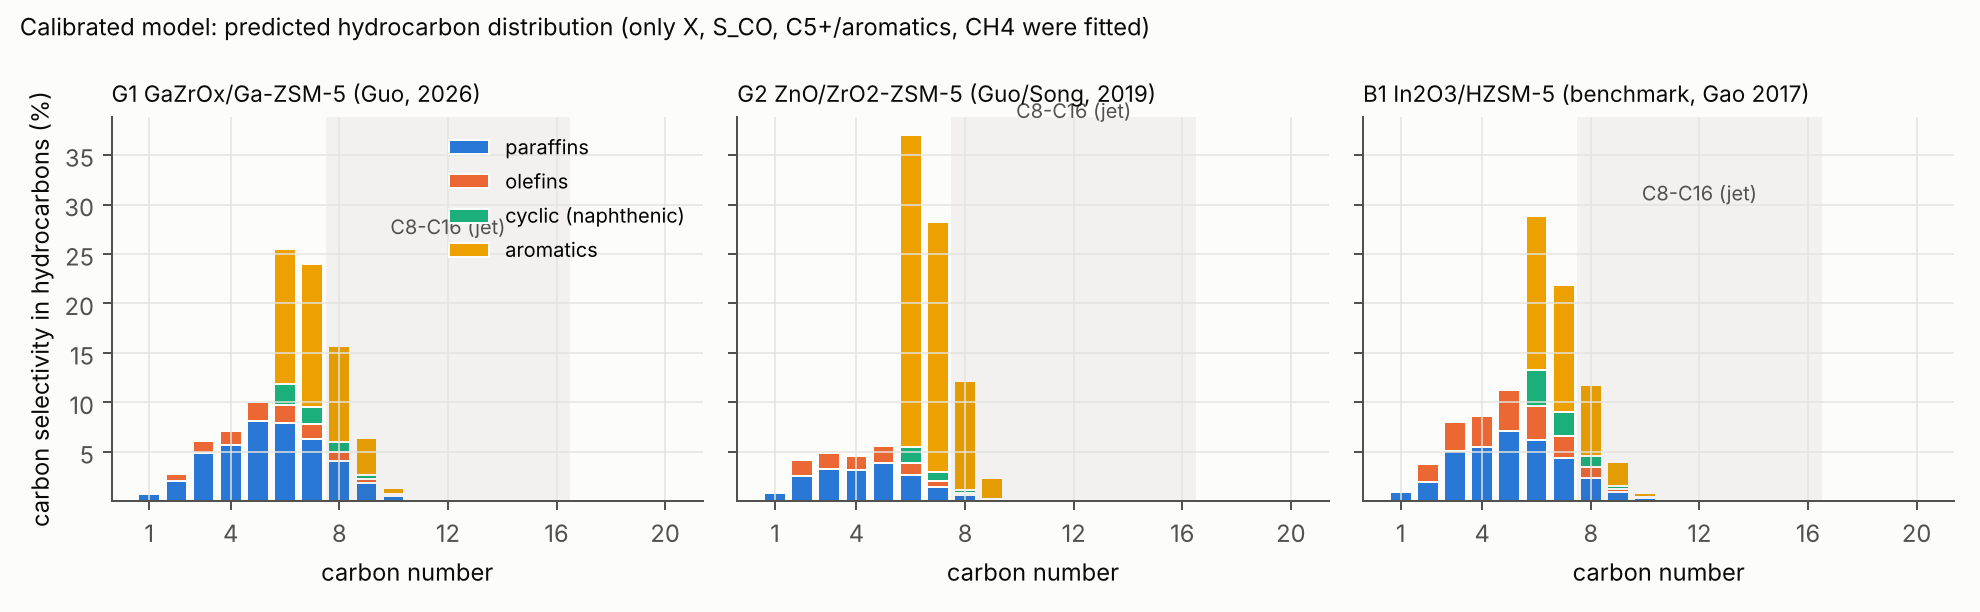
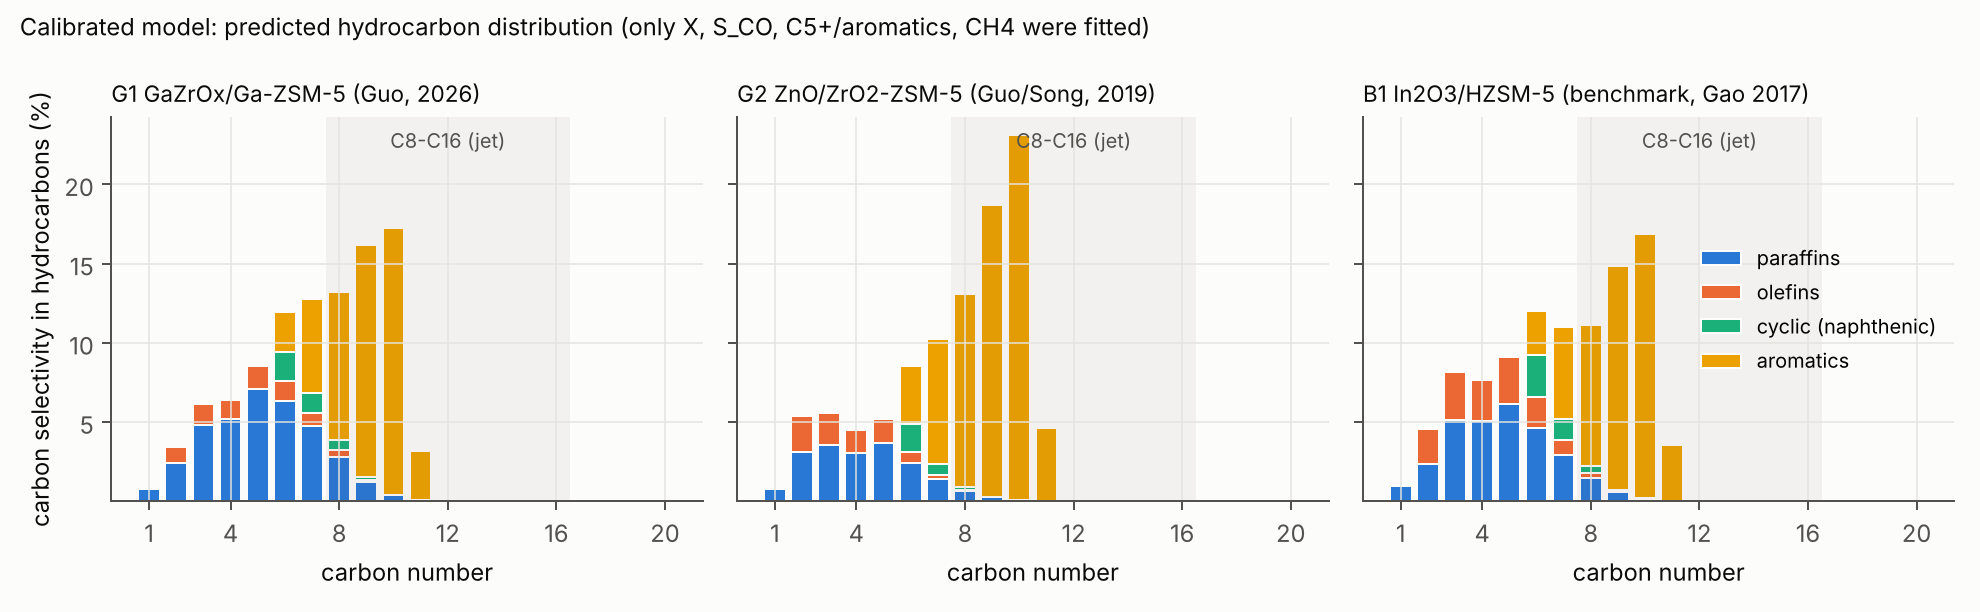
Fit aromatic carbon number, fix analysis keys, add lumped network CSV
Claude-Session: https://claude.ai/code/session_019ZxddQWZASxrqkEhTDTvev

diff --git a/co2_hydrogenation_network/tandem_kinetics/analyze.py b/co2_hydrogenation_network/tandem_kinetics/analyze.py
@@ -25,7 +25,7 @@ HERE = os.path.dirname(os.path.abspath(__file__))
 RES = os.path.join(HERE, "results")
 FIG = os.path.join(HERE, "figures")
 KEYS = ["X_CO2", "S_CO", "S_MeOH+DME", "CH4", "C2-C4=", "C2-C4o", "C5+", "aromatics",
-        "olefins_C5+", "paraffins_C5+", "C8-C16", "C5-C11", "SAF_usable", "Y_C8-C16"]
+        "olefins_C5+", "paraffins_C5+", "C8-C16", "C5-C11", "C17+", "SAF_usable", "Y_C8-C16", "nA_mean"]
 G1 = "G1_GaZrOx_GaZSM5"
 
 
